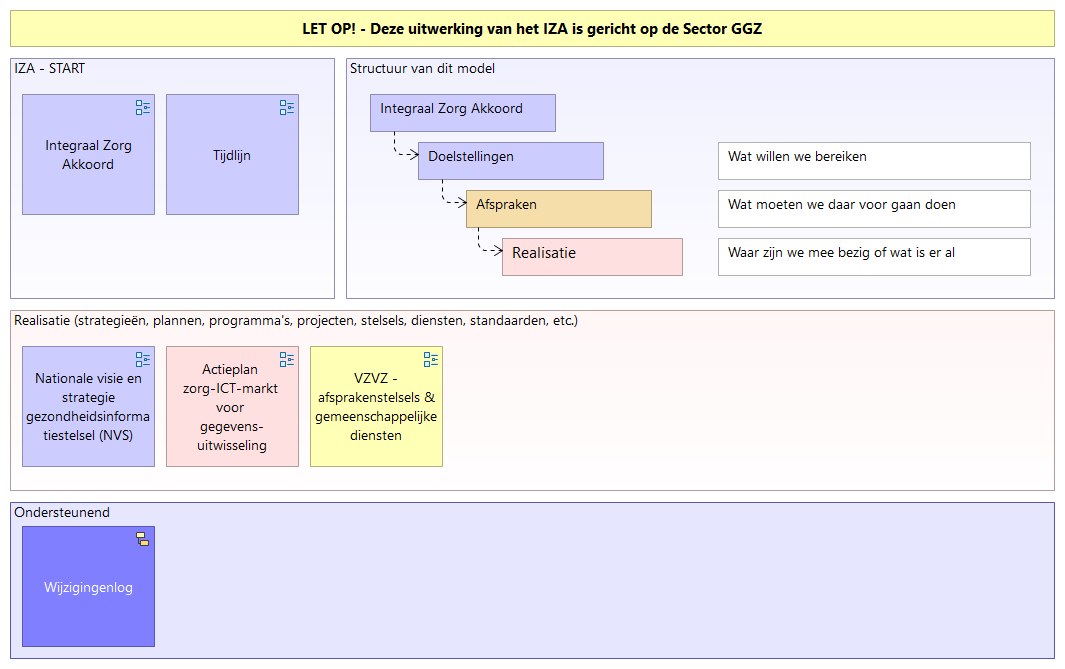
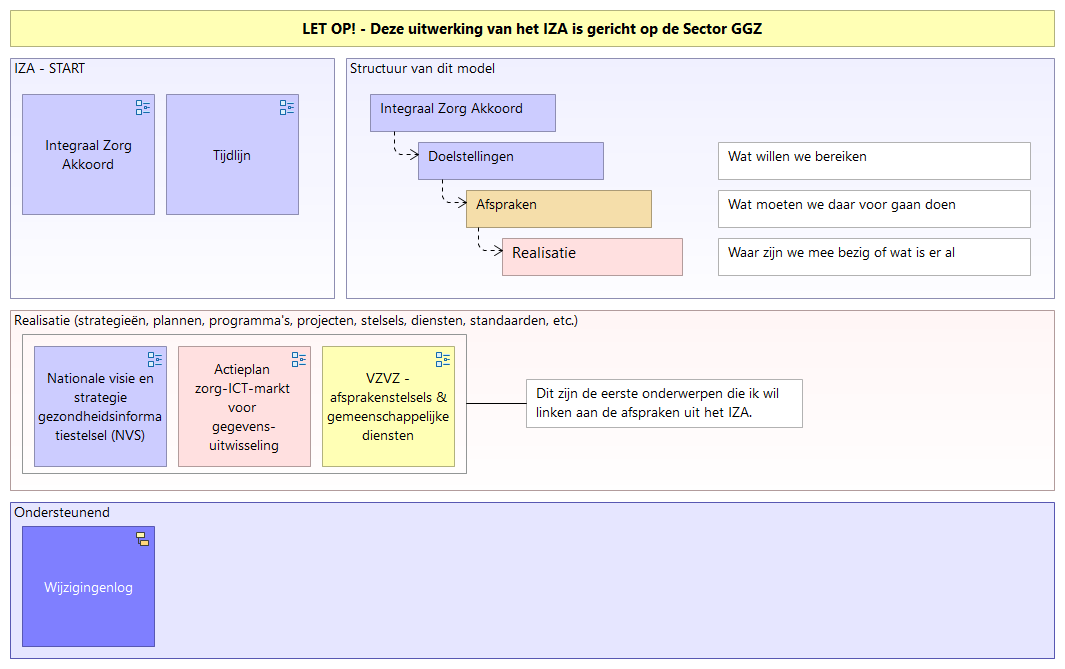
IZA update
Kleine update aan het dashboard. Geen inhoudelijke veranderingen.

Changed region(s): [[0.0, 0.5082, 0.4338, 0.7175], [0.4958, 0.568, 0.7437, 0.6278]]

diff --git a/docs/RM_IZA/id-b46c5df653a343f4b715052c06b24c56/views/id-683b2f142f7049f4906691818671e8a9.html b/docs/RM_IZA/id-b46c5df653a343f4b715052c06b24c56/views/id-683b2f142f7049f4906691818671e8a9.html
@@ -37,12 +37,15 @@
 
 				          <area shape="rect" coords="10,502,1055,659" href="../objects/id-52b67c75bbe84b88b08ad27d8013e0d4.html" target="element" >
 				          <area shape="rect" coords="10,10,1055,47" href="../objects/id-1cedcd3485204753b200f7bd56435b36.html" target="element" >
-				  				<area shape="rect" coords="22,346,155,467" href="../views/id-730aca05d0da4df19773a054ce2db2b0.html"  target="view">
-				  		    <!-- Other diagram objects -->
-				  				<area shape="rect" coords="310,346,443,467" href="../views/id-3645dc3b63fa4696bfbc19a635465043.html"  target="view">
-				  		    <!-- Other diagram objects -->
-				  				<area shape="rect" coords="166,346,299,467" href="../views/id-e2d8fba101654a03bb2c5acecc8301d0.html"  target="view">
-				  		    <!-- Other diagram objects -->
+				  		        <area shape="rect" coords="526,379,803,428" href="../objects/id-03d4dca1bc4447e380a3b1b34e5e4ca2.html" target="element" >
+				  						<area shape="rect" coords="34,346,167,467" href="../views/id-730aca05d0da4df19773a054ce2db2b0.html"  target="view">
+				  				    <!-- Other diagram objects -->
+				  						<area shape="rect" coords="178,346,311,467" href="../views/id-e2d8fba101654a03bb2c5acecc8301d0.html"  target="view">
+				  				    <!-- Other diagram objects -->
+				  						<area shape="rect" coords="322,346,455,467" href="../views/id-3645dc3b63fa4696bfbc19a635465043.html"  target="view">
+				  				    <!-- Other diagram objects -->
+
+				  		        <area shape="rect" coords="22,334,467,474" href="../objects/id-de9b70400ac24fb3856b71ca125dba67.html" target="element" >
 
 				          <area shape="rect" coords="10,310,1055,491" href="../objects/id-fa6d10091d5145958fe049001b1e805e.html" target="element" >
 				  		        <area shape="rect" coords="718,238,1031,276" href="../objects/id-e03b63573c95422eb0855518ef705bfa.html" target="element" >
@@ -176,23 +179,34 @@ Marcel Schrauwen | Businessarchitect Sectorteam GGZ | marcel.schrauwen@vzvz.nl</
 									           <td> <a href="../objects/id-fa6d10091d5145958fe049001b1e805e.html" target="element" class="i18n-elementtype-DiagramModelGroup"> </a> </td>
 									        </tr>
 
-													<tr>
-													    <td> <a href="../views/id-e2d8fba101654a03bb2c5acecc8301d0.html" target="view"> Actieplan zorg-ICT-markt voor gegevensuitwisseling </a> </td>
-													    <td> <a href="../views/id-e2d8fba101654a03bb2c5acecc8301d0.html" target="view" class="i18n-viewpoint-"> </a> </td>
-													</tr>
-											    <!-- Other graphical objects -->
+											        <tr>
+											           <td> <a href="../objects/id-de9b70400ac24fb3856b71ca125dba67.html" target="element">  </a> </td>
+											           <td> <a href="../objects/id-de9b70400ac24fb3856b71ca125dba67.html" target="element" class="i18n-elementtype-DiagramModelGroup"> </a> </td>
+											        </tr>
 
-													<tr>
-													    <td> <a href="../views/id-3645dc3b63fa4696bfbc19a635465043.html" target="view"> VZVZ - afsprakenstelsels & gemeenschappelijke diensten </a> </td>
-													    <td> <a href="../views/id-3645dc3b63fa4696bfbc19a635465043.html" target="view" class="i18n-viewpoint-"> </a> </td>
-													</tr>
-											    <!-- Other graphical objects -->
+															<tr>
+															    <td> <a href="../views/id-3645dc3b63fa4696bfbc19a635465043.html" target="view"> VZVZ - afsprakenstelsels & gemeenschappelijke diensten </a> </td>
+															    <td> <a href="../views/id-3645dc3b63fa4696bfbc19a635465043.html" target="view" class="i18n-viewpoint-"> </a> </td>
+															</tr>
+													    <!-- Other graphical objects -->
 
-													<tr>
-													    <td> <a href="../views/id-730aca05d0da4df19773a054ce2db2b0.html" target="view"> Nationale visie en strategie gezondheidsinformatiestelsel (NVS) </a> </td>
-													    <td> <a href="../views/id-730aca05d0da4df19773a054ce2db2b0.html" target="view" class="i18n-viewpoint-"> </a> </td>
-													</tr>
-											    <!-- Other graphical objects -->
+															<tr>
+															    <td> <a href="../views/id-e2d8fba101654a03bb2c5acecc8301d0.html" target="view"> Actieplan zorg-ICT-markt voor gegevensuitwisseling </a> </td>
+															    <td> <a href="../views/id-e2d8fba101654a03bb2c5acecc8301d0.html" target="view" class="i18n-viewpoint-"> </a> </td>
+															</tr>
+													    <!-- Other graphical objects -->
+
+															<tr>
+															    <td> <a href="../views/id-730aca05d0da4df19773a054ce2db2b0.html" target="view"> Nationale visie en strategie gezondheidsinformatiestelsel (NVS) </a> </td>
+															    <td> <a href="../views/id-730aca05d0da4df19773a054ce2db2b0.html" target="view" class="i18n-viewpoint-"> </a> </td>
+															</tr>
+													    <!-- Other graphical objects -->
+
+													
+											        <tr>
+											           <td> <a href="../objects/id-03d4dca1bc4447e380a3b1b34e5e4ca2.html" target="element"> Sticky </a> </td>
+											           <td> <a href="../objects/id-03d4dca1bc4447e380a3b1b34e5e4ca2.html" target="element" class="i18n-elementtype-SketchModelSticky"> </a> </td>
+											        </tr>
 
 											
 									        <tr>
@@ -241,9 +255,12 @@ Marcel Schrauwen | Businessarchitect Sectorteam GGZ | marcel.schrauwen@vzvz.nl</
 													<!-- DEBUG: Skipping element from class com.archimatetool.model.impl.SketchModelSticky -->
 											
 											<!-- DEBUG: Skipping element from class com.archimatetool.model.impl.DiagramModelGroup -->
-													<!-- DEBUG: Skipping element from class com.archimatetool.model.impl.DiagramModelReference -->
-													<!-- DEBUG: Skipping element from class com.archimatetool.model.impl.DiagramModelReference -->
-													<!-- DEBUG: Skipping element from class com.archimatetool.model.impl.DiagramModelReference -->
+													<!-- DEBUG: Skipping element from class com.archimatetool.model.impl.DiagramModelGroup -->
+															<!-- DEBUG: Skipping element from class com.archimatetool.model.impl.DiagramModelReference -->
+															<!-- DEBUG: Skipping element from class com.archimatetool.model.impl.DiagramModelReference -->
+															<!-- DEBUG: Skipping element from class com.archimatetool.model.impl.DiagramModelReference -->
+													
+													<!-- DEBUG: Skipping element from class com.archimatetool.model.impl.SketchModelSticky -->
 											
 											<!-- DEBUG: Skipping element from class com.archimatetool.model.impl.SketchModelSticky -->
 											<!-- DEBUG: Skipping element from class com.archimatetool.model.impl.DiagramModelGroup -->

diff --git a/docs/RM_IZA/id-b46c5df653a343f4b715052c06b24c56/objects/id-de9b70400ac24fb3856b71ca125dba67.html b/docs/RM_IZA/id-b46c5df653a343f4b715052c06b24c56/objects/id-de9b70400ac24fb3856b71ca125dba67.html
@@ -2,7 +2,7 @@
 <html class="frame" lang="en">
 <head>
 	<meta http-equiv="Content-Type" content="text/html;charset=utf-8">
-	<title>Realisatie (strategieën, plannen, programma's, projecten, stelsels, diensten, standaarden, etc.)</title>
+	<title></title>
 
 	<!-- JQUERY -->
 	<script type="text/javascript" src="../../lib/jquery/jquery.min.js"></script>
@@ -21,8 +21,7 @@
 
 		<div class="panel-heading root-panel-heading">
             <!-- Name -->
-               <b>Realisatie (strategie&#235;n, plannen, programma's, projecten, stelsels, diensten, standaarden, etc.)</b>
-
+               <b class="i18n-elementtype-DiagramModelGroup"></b>
             <!-- If a View with Viewpoint -->
 			   (<span class="i18n-elementtype-DiagramModelGroup"></span>)
 			   <a class="glyphicon glyphicon-info-sign" id="hint-DiagramModelGroup" target="hint"></a>
@@ -48,7 +47,7 @@
 				<!-- Tab panes -->
 				<div class="tab-content">
 					<div role="tabpanel" class="tab-pane active" id="documentation">
-						<div class="convertlinks documentation" style="white-space:pre-wrap">Wat is er allemaal gaande dat moet bijdragen aan de realisatie van de doelen van het IZA</div>
+						<div class="convertlinks documentation" style="white-space:pre-wrap"></div>
 					</div>
 					<div role="tabpanel" class="tab-pane" id="properties">
 						<table class="table table-striped table-hover table-condensed">
@@ -71,34 +70,23 @@
 									</tr>
 								</thead>
 								<tbody>
-									        <tr>
-									           <td> <a href="../objects/id-de9b70400ac24fb3856b71ca125dba67.html" target="element">  </a> </td>
-									           <td> <a href="../objects/id-de9b70400ac24fb3856b71ca125dba67.html" target="element" class="i18n-elementtype-DiagramModelGroup"> </a> </td>
-									        </tr>
+											<tr>
+											    <td> <a href="../views/id-3645dc3b63fa4696bfbc19a635465043.html" target="view"> VZVZ - afsprakenstelsels & gemeenschappelijke diensten </a> </td>
+											    <td> <a href="../views/id-3645dc3b63fa4696bfbc19a635465043.html" target="view" class="i18n-viewpoint-"> </a> </td>
+											</tr>
+									    <!-- Other graphical objects -->
 
-													<tr>
-													    <td> <a href="../views/id-3645dc3b63fa4696bfbc19a635465043.html" target="view"> VZVZ - afsprakenstelsels & gemeenschappelijke diensten </a> </td>
-													    <td> <a href="../views/id-3645dc3b63fa4696bfbc19a635465043.html" target="view" class="i18n-viewpoint-"> </a> </td>
-													</tr>
-											    <!-- Other graphical objects -->
+											<tr>
+											    <td> <a href="../views/id-e2d8fba101654a03bb2c5acecc8301d0.html" target="view"> Actieplan zorg-ICT-markt voor gegevensuitwisseling </a> </td>
+											    <td> <a href="../views/id-e2d8fba101654a03bb2c5acecc8301d0.html" target="view" class="i18n-viewpoint-"> </a> </td>
+											</tr>
+									    <!-- Other graphical objects -->
 
-													<tr>
-													    <td> <a href="../views/id-e2d8fba101654a03bb2c5acecc8301d0.html" target="view"> Actieplan zorg-ICT-markt voor gegevensuitwisseling </a> </td>
-													    <td> <a href="../views/id-e2d8fba101654a03bb2c5acecc8301d0.html" target="view" class="i18n-viewpoint-"> </a> </td>
-													</tr>
-											    <!-- Other graphical objects -->
-
-													<tr>
-													    <td> <a href="../views/id-730aca05d0da4df19773a054ce2db2b0.html" target="view"> Nationale visie en strategie gezondheidsinformatiestelsel (NVS) </a> </td>
-													    <td> <a href="../views/id-730aca05d0da4df19773a054ce2db2b0.html" target="view" class="i18n-viewpoint-"> </a> </td>
-													</tr>
-											    <!-- Other graphical objects -->
-
-											
-									        <tr>
-									           <td> <a href="../objects/id-03d4dca1bc4447e380a3b1b34e5e4ca2.html" target="element"> Sticky </a> </td>
-									           <td> <a href="../objects/id-03d4dca1bc4447e380a3b1b34e5e4ca2.html" target="element" class="i18n-elementtype-SketchModelSticky"> </a> </td>
-									        </tr>
+											<tr>
+											    <td> <a href="../views/id-730aca05d0da4df19773a054ce2db2b0.html" target="view"> Nationale visie en strategie gezondheidsinformatiestelsel (NVS) </a> </td>
+											    <td> <a href="../views/id-730aca05d0da4df19773a054ce2db2b0.html" target="view" class="i18n-viewpoint-"> </a> </td>
+											</tr>
+									    <!-- Other graphical objects -->
 
 
 								</tbody>
@@ -115,12 +103,9 @@
 									</tr>
 								</thead>
 								<tbody>
-											<!-- DEBUG: Skipping element from class com.archimatetool.model.impl.DiagramModelGroup -->
-													<!-- DEBUG: Skipping element from class com.archimatetool.model.impl.DiagramModelReference -->
-													<!-- DEBUG: Skipping element from class com.archimatetool.model.impl.DiagramModelReference -->
-													<!-- DEBUG: Skipping element from class com.archimatetool.model.impl.DiagramModelReference -->
-											
-											<!-- DEBUG: Skipping element from class com.archimatetool.model.impl.SketchModelSticky -->
+											<!-- DEBUG: Skipping element from class com.archimatetool.model.impl.DiagramModelReference -->
+											<!-- DEBUG: Skipping element from class com.archimatetool.model.impl.DiagramModelReference -->
+											<!-- DEBUG: Skipping element from class com.archimatetool.model.impl.DiagramModelReference -->
 
 								</tbody>
 							</table>

diff --git a/docs/RM_IZA/id-b46c5df653a343f4b715052c06b24c56/objects/id-03d4dca1bc4447e380a3b1b34e5e4ca2.html b/docs/RM_IZA/id-b46c5df653a343f4b715052c06b24c56/objects/id-03d4dca1bc4447e380a3b1b34e5e4ca2.html
@@ -1,0 +1,68 @@
+<!DOCTYPE html>
+<html class="frame" lang="en">
+<head>
+	<meta http-equiv="Content-Type" content="text/html;charset=utf-8">
+	<title>Sticky</title>
+
+	<!-- JQUERY -->
+	<script type="text/javascript" src="../../lib/jquery/jquery.min.js"></script>
+	<!-- BOOTSTRAP -->
+	<link type="text/css" rel="stylesheet" href="../../lib/bootstrap/css/bootstrap.min.yeti.css">
+	<script type="text/javascript" src="../../lib/bootstrap/js/bootstrap-3.3.2.min.js"></script>
+	<!-- REPORT SPECIFIC -->
+	<link type="text/css" rel="stylesheet" href="../../css/model.css">
+	<link type="text/css" rel="stylesheet" href="../../css/i18n.css">
+	<script type="text/javascript" src="../../js/frame.js"></script>
+	<script type="text/javascript" src="../../js/imageMapResizer.min.js"></script>
+</head>
+
+<body>
+	<div class="panel panel-default root-panel">
+
+		<div class="panel-heading root-panel-heading">
+            <!-- Name -->
+               <b>Sticky</b>
+
+            <!-- If a View with Viewpoint -->
+			   (<span class="i18n-elementtype-SketchModelSticky"></span>)
+			   <a class="glyphicon glyphicon-info-sign" id="hint-SketchModelSticky" target="hint"></a>
+		</div>
+
+		<div class="panel-body root-panel-body">
+		    <!-- If this is a digram model (has children and no bounds) show the image -->
+
+			<div role="tabpanel">
+				<!-- Nav tabs -->
+				<ul class="nav nav-tabs" role="tablist">
+                    <!-- Purpose / Documentation / Content -->
+                       <li role="presentation" class="active"><a href="#documentation" aria-controls="documentation" role="tab" data-toggle="tab" class="i18n-content"></a></li>
+
+                    <!-- Properties -->
+                    <li role="presentation"><a href="#properties" aria-controls="properties" role="tab" data-toggle="tab" class="i18n-properties"></a></li>
+
+				</ul>
+
+				<!-- Tab panes -->
+				<div class="tab-content">
+					<div role="tabpanel" class="tab-pane active" id="documentation">
+						<div class="convertlinks documentation" style="white-space:pre-wrap">Dit zijn de eerste onderwerpen die ik wil linken aan de afspraken uit het IZA.</div>
+					</div>
+					<div role="tabpanel" class="tab-pane" id="properties">
+						<table class="table table-striped table-hover table-condensed">
+							<thead>
+								<tr>
+									<th class="i18n-key"></th>
+									<th class="i18n-value"></th>
+								</tr>
+							</thead>
+							<tbody>
+							</tbody>
+						</table>
+					</div>
+			  </div>
+			</div>
+		</div>
+	</div>
+	<script type="text/javascript">imageMapResize();</script>
+</body>
+</html>

diff --git a/docs/RM_IZA/id-b46c5df653a343f4b715052c06b24c56/elements/model.html b/docs/RM_IZA/id-b46c5df653a343f4b715052c06b24c56/elements/model.html
@@ -1200,15 +1200,17 @@
 															dataViewsContent.push({viewid:"id-683b2f142f7049f4906691818671e8a9", contentid:"id-27c391ec02d74709bc8a397c85a7f13b", contenttype:"ArchimateDiagramModel"});
 													
 													
-															dataViewsContent.push({viewid:"id-683b2f142f7049f4906691818671e8a9", contentid:"id-e2d8fba101654a03bb2c5acecc8301d0", contenttype:"ArchimateDiagramModel"});
-															dataViewsContent.push({viewid:"id-683b2f142f7049f4906691818671e8a9", contentid:"id-3645dc3b63fa4696bfbc19a635465043", contenttype:"ArchimateDiagramModel"});
-															dataViewsContent.push({viewid:"id-683b2f142f7049f4906691818671e8a9", contentid:"id-730aca05d0da4df19773a054ce2db2b0", contenttype:"ArchimateDiagramModel"});
+																	dataViewsContent.push({viewid:"id-683b2f142f7049f4906691818671e8a9", contentid:"id-3645dc3b63fa4696bfbc19a635465043", contenttype:"ArchimateDiagramModel"});
+																	dataViewsContent.push({viewid:"id-683b2f142f7049f4906691818671e8a9", contentid:"id-e2d8fba101654a03bb2c5acecc8301d0", contenttype:"ArchimateDiagramModel"});
+																	dataViewsContent.push({viewid:"id-683b2f142f7049f4906691818671e8a9", contentid:"id-730aca05d0da4df19773a054ce2db2b0", contenttype:"ArchimateDiagramModel"});
+															
 													
 															dataViewsContent.push({viewid:"id-683b2f142f7049f4906691818671e8a9", contentid:"id-c900d11dca34470a9cef10c9261298b4", contenttype:"SketchModel"});
 													
 
 													
 													
+															
 													
 													
 
